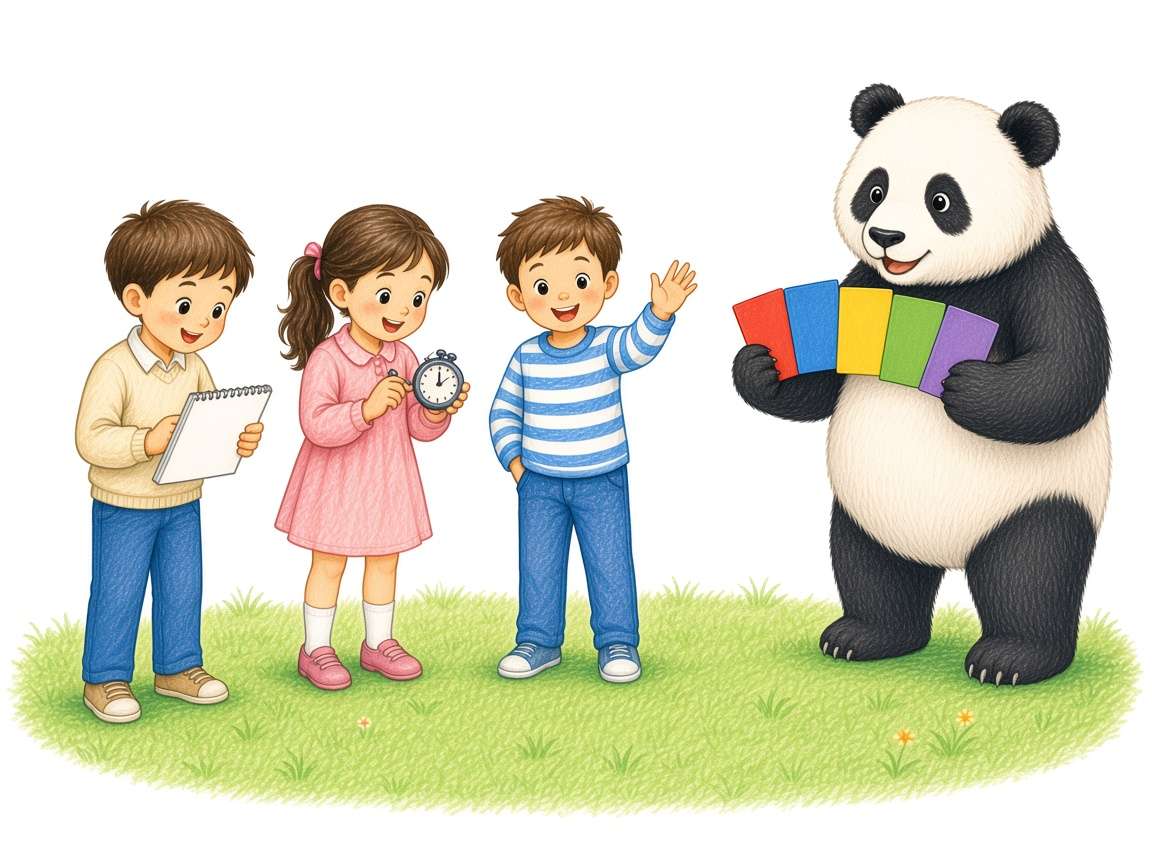
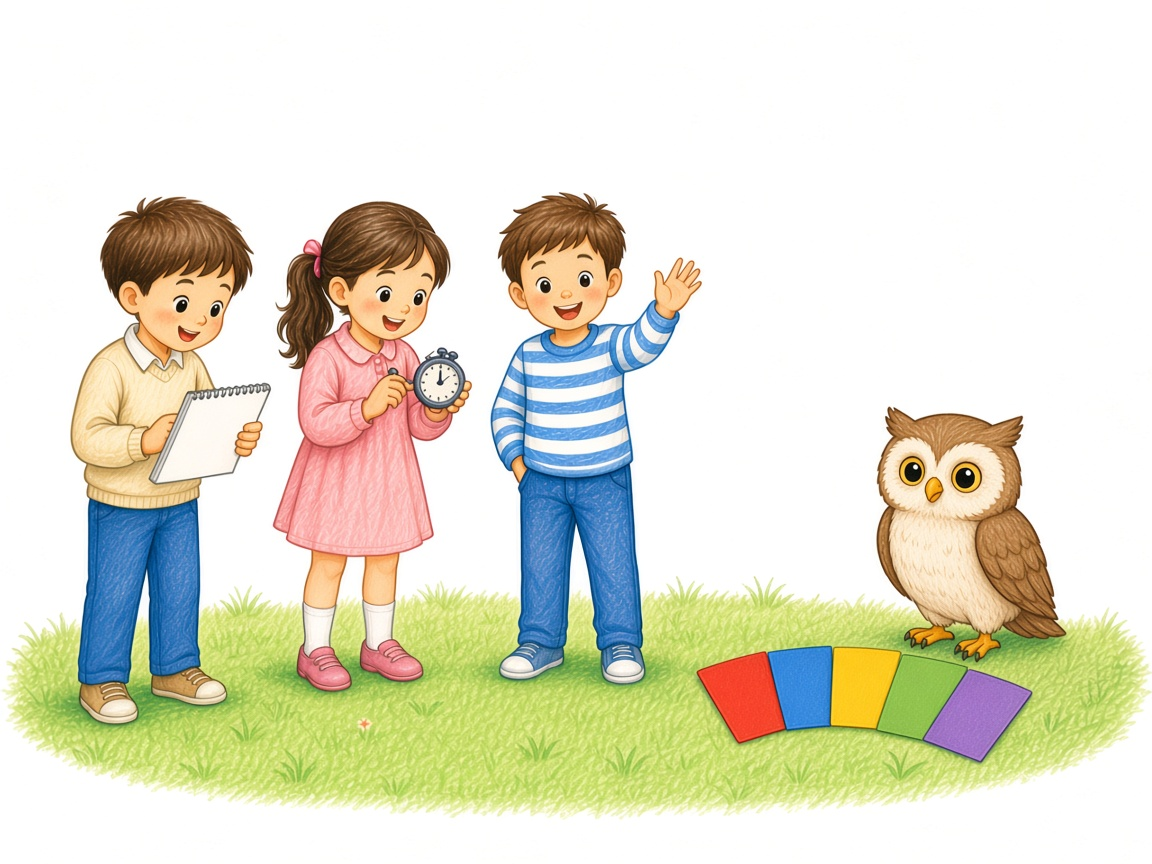
Ganti tokoh Pandu dengan burung hantu Igil di Matematika kelas 3 Bab 1.

Changed region(s): [[0.0, 0.0938, 1.0, 0.9688], [0.25, 0.7188, 0.375, 0.8125], [0.2188, 0.5625, 0.25, 0.5938]]

diff --git a/src/components/NaskahMtk3Bab1.tsx b/src/components/NaskahMtk3Bab1.tsx
@@ -66,14 +66,14 @@ const WARNA_DIALOG: Record<string, string> = {
   Aldi: "border-[#2563EB]/20 bg-[#EFF6FF]",
   Naya: "border-[#DB2777]/20 bg-[#FDF2F8]",
   Fikri: "border-[#16A34A]/20 bg-[#F0FDF4]",
-  Pandu: "border-amber-300 bg-amber-50",
+  Igil: "border-amber-300 bg-amber-50",
 };
 
 const WAJAH_DIALOG: Record<string, string> = {
   Aldi: "👦",
   Naya: "👧",
   Fikri: "👦",
-  Pandu: "🐼",
+  Igil: "🦉",
 };
 
 function Dialog({ nama, anak }: { nama: string; anak: string }) {
@@ -542,9 +542,9 @@ function KartuA({ kelas, kelamin }: { kelas?: string; kelamin?: KelaminGuru }) {
   return (
     <KartuBingkai>
       <KepalaKartu
-        ikon="👦👧🐼"
+        ikon="👦👧🦉"
         judul="A. Lapangan Sekolah"
-        anak="Aldi, Naya, Fikri, dan Pandu"
+        anak="Aldi, Naya, Fikri, dan Igil"
         kelas={kelas}
         kelamin={kelamin}
         cuplikan={cuplikanKalimat(kartu.voice[0] ?? [])}
@@ -562,7 +562,7 @@ function KartuA({ kelas, kelamin }: { kelas?: string; kelamin?: KelaminGuru }) {
           utama
           judul="Sub-bab 1 — Membaca bilangan ribuan"
           src="/doodle-mtk/mtk-3-bab1-sub1.jpg"
-          alt="Lapangan sekolah, papan skor kosong, dan empat kotak rak kosong. Aldi memegang catatan, Naya memegang stopwatch, Fikri melambai, panda berdiri di samping."
+          alt="Lapangan sekolah, papan skor kosong, dan empat kotak rak kosong. Aldi memegang catatan, Naya memegang stopwatch, Fikri melambai, burung hantu Igil berdiri di samping."
           kelas={kelas}
           kelamin={kelamin}
           penjelasan={["Empat angka dibaca dari kiri. Titik hanya pemisah ribuan."]}
@@ -570,7 +570,7 @@ function KartuA({ kelas, kelamin }: { kelas?: string; kelamin?: KelaminGuru }) {
           <Dialog nama="Aldi" anak="Papan menulis 4.725." />
           <Dialog nama="Fikri" anak="Empat, tujuh, dua, lima?" />
           <Dialog nama="Naya" anak="Itu menyebut angka. Bacanya: empat ribu tujuh ratus dua puluh lima." />
-          <Dialog nama="Pandu" anak="4 di rak ribuan, 7 ratusan, 2 puluhan, 5 satuan. Titik bukan angka." />
+          <Dialog nama="Igil" anak="4 di rak ribuan, 7 ratusan, 2 puluhan, 5 satuan. Titik bukan angka." />
           <Papan anak="4.725 = 4 ribuan + 7 ratusan + 2 puluhan + 5 satuan" />
           <JudulInfografis judul="Membaca dan menulis" />
           <PetaContoh
@@ -631,7 +631,7 @@ function KartuA({ kelas, kelamin }: { kelas?: string; kelamin?: KelaminGuru }) {
           utama
           judul="Sub-bab 2 — Nilai tempat ribuan sampai satuan"
           src="/doodle-mtk/mtk-3-bab1-sub2.jpg"
-          alt="Anak-anak, panda, balon, dan empat kotak rak kosong di depan papan yang masih kosong."
+          alt="Anak-anak, burung hantu Igil, balon, dan empat kotak rak kosong di depan papan yang masih kosong."
           kelas={kelas}
           kelamin={kelamin}
           penjelasan={["Angkanya tetap. Raknya yang mengubah nilai."]}
@@ -639,7 +639,7 @@ function KartuA({ kelas, kelamin }: { kelas?: string; kelamin?: KelaminGuru }) {
           <Dialog nama="Fikri" anak="Mengapa angka 8 pada 6.482 bernilai 80?" />
           <Dialog nama="Aldi" anak="Karena ia di rak puluhan." />
           <Dialog nama="Naya" anak="Satu puluhan berisi sepuluh. Pindah satu rak ke kiri, kali sepuluh." />
-          <Dialog nama="Pandu" anak="6.482 sama dengan 6.000 + 400 + 80 + 2." />
+          <Dialog nama="Igil" anak="6.482 sama dengan 6.000 + 400 + 80 + 2." />
           <Papan anak="6.482 = 6.000 + 400 + 80 + 2" />
           <JudulInfografis judul="Nilai tempat" />
           <PetaContoh
@@ -708,7 +708,7 @@ function KartuA({ kelas, kelamin }: { kelas?: string; kelamin?: KelaminGuru }) {
           <Dialog nama="Naya" anak="Merah 3.842, Biru 3.291." />
           <Dialog nama="Aldi" anak="Ribuan sama. Ratusan 8 lebih besar dari 2." />
           <Dialog nama="Fikri" anak="Kalau 8.000 dan 7.999?" />
-          <Dialog nama="Pandu" anak="Ribuan sudah beda. 8.000 lebih besar." />
+          <Dialog nama="Igil" anak="Ribuan sudah beda. 8.000 lebih besar." />
           <Papan anak="3.842 > 3.291    8.000 > 7.999" />
           <JudulInfografis judul="Membandingkan" />
           <PetaContoh
@@ -776,7 +776,7 @@ function KartuA({ kelas, kelamin }: { kelas?: string; kelamin?: KelaminGuru }) {
           <Dialog nama="Aldi" anak="Skornya 6.540, 2.180, 6.290, 9.050, dan 2.990." />
           <Dialog nama="Naya" anak="Pisahkan ribuan 2, ribuan 6, dan ribuan 9." />
           <Dialog nama="Fikri" anak="Di kelompok 2: 2.180 lalu 2.990." />
-          <Dialog nama="Pandu" anak="Jadi 2.180, 2.990, 6.290, 6.540, 9.050." />
+          <Dialog nama="Igil" anak="Jadi 2.180, 2.990, 6.290, 6.540, 9.050." />
           <Papan anak="2.180 < 2.990 < 6.290 < 6.540 < 9.050" />
           <JudulInfografis judul="Mengurutkan" />
           <PetaContoh
@@ -844,7 +844,7 @@ function KartuA({ kelas, kelamin }: { kelas?: string; kelamin?: KelaminGuru }) {
           <Dialog nama="Fikri" anak="6.084 dan 6.840 angkanya sama." />
           <Dialog nama="Naya" anak="Pada 6.084, angka 8 di puluhan. Pada 6.840, angka 8 di ratusan." />
           <Dialog nama="Aldi" anak="Nol di tengah tidak disebut." />
-          <Dialog nama="Pandu" anak="Tetap ditulis. Tanpa nol, 6.084 jadi 684." />
+          <Dialog nama="Igil" anak="Tetap ditulis. Tanpa nol, 6.084 jadi 684." />
           <Papan anak={"6.084 = enam ribu delapan puluh empat\n6.840 = enam ribu delapan ratus empat puluh"} />
           <JudulInfografis judul="Bilangan dengan angka nol" />
           <PetaContoh
@@ -1019,7 +1019,7 @@ function KartuC({ kelas, kelamin }: { kelas?: string; kelamin?: KelaminGuru }) {
   return (
     <KartuBingkai latar="bg-amber-50/40">
       <KepalaKartu
-        ikon="🏗🐼"
+        ikon="🏗🦉"
         judul={kartu.judul}
         anak="Sepuluh pos · baca, bandingkan, urutkan"
         kelas={kelas}
@@ -1029,7 +1029,7 @@ function KartuC({ kelas, kelamin }: { kelas?: string; kelamin?: KelaminGuru }) {
       {/* eslint-disable-next-line @next/next/no-img-element */}
       <img
         src="/doodle-mtk/mtk-3-bab1-permainan.jpg"
-        alt="Stadion kejuaraan. Pandu berdiri di meja juri."
+        alt="Stadion kejuaraan. Igil berdiri di meja juri."
         className="mt-4 w-full rounded-xl border border-[#1C01A5]/10 bg-white object-cover"
       />
       <p className="mt-3 text-center text-sm font-semibold text-slate-600">Sepuluh soal pola. Pilih satu pos, lalu jawab.</p>
@@ -1039,8 +1039,8 @@ function KartuC({ kelas, kelamin }: { kelas?: string; kelamin?: KelaminGuru }) {
           idMisi={(indeks) => idKuis("C", indeks)}
           idTulis={idKuisTulisKartu(ID, "C")}
           tema={TEMA_MTK3_BAB1}
-          penutup="Podium juara terbuka. Pandu memasang lencana juri."
-          bunga="🏟🏆🥇🐼"
+          penutup="Podium juara terbuka. Igil memasang lencana juri."
+          bunga="🏟🏆🥇🦉"
         />
       </div>
     </KartuBingkai>
@@ -1058,17 +1058,17 @@ function LembarEvaluasi({ kelas, kelamin }: { kelas?: string; kelamin?: KelaminG
     }
     return jumlahSkor;
   }, [kuis]);
-  const lencana = skor >= 9 ? "🥇 Juri Bilangan Ahli" : skor >= 6 ? "🏟 Juri Muda Cerdas" : "🐼 Sahabat Pandu";
+  const lencana = skor >= 9 ? "🥇 Juri Bilangan Ahli" : skor >= 6 ? "🏟 Juri Muda Cerdas" : "🦉 Sahabat Igil";
   const pesan =
     skor >= 9
       ? "Luar biasa! Catatanmu bisa dipertanggungjawabkan!"
       : skor >= 6
         ? "Hebat! Sedikit lagi jadi juri ahli!"
-        : "Ayo selidiki lagi bersama Pandu, kamu pasti bisa!";
+        : "Ayo selidiki lagi bersama Igil, kamu pasti bisa!";
   return (
     <KartuBingkai latar="bg-rose-50/80">
       <KepalaKartu
-        ikon="📝🐼"
+        ikon="📝🦉"
         judul={kartu.judul}
         anak={`${nama} · Kelas 3 · ${skor} dari 10`}
         kelas={kelas}
@@ -1078,7 +1078,7 @@ function LembarEvaluasi({ kelas, kelamin }: { kelas?: string; kelamin?: KelaminG
       {/* eslint-disable-next-line @next/next/no-img-element */}
       <img
         src="/doodle-mtk/mtk-3-bab1-evaluasi.jpg"
-        alt="Meja ujian dan panda Pandu."
+        alt="Meja ujian dan burung hantu Igil."
         className="mt-4 w-full rounded-xl border border-[#1C01A5]/10 bg-white object-cover"
       />
       <p className="mt-4 text-center text-sm font-black text-[#1C01A5]">
@@ -1226,7 +1226,7 @@ export default function NaskahMtk3Bab1({
         kelamin={kelamin}
         gambar={{
           src: "/doodle-mtk/mtk-3-bab1-poin.jpg",
-          alt: "Panda Pandu membentangkan lima kartu kunci di depan papan skor.",
+          alt: "Burung hantu Igil membentangkan lima kartu kunci di depan papan skor.",
         }}
         cuplikan={cuplikanKalimat([
           "Baca tiap rak dari kiri. Pindah satu rak ke kiri berarti dikali sepuluh.",

diff --git a/src/lib/modul-resmi-mtk-3-bab1.ts b/src/lib/modul-resmi-mtk-3-bab1.ts
@@ -13,12 +13,12 @@ export const MODUL_MTK3_BAB1: ModulResmiPai = {
   judul: JUDUL_MTK3_BAB1,
   pola: /bilangan sampai 10\.?000/,
   motivasi:
-    "Aldi, Naya, dan Fikri belajar membaca, membandingkan, dan mengurutkan bilangan sampai 10.000 bersama panda Pandu.",
+    "Aldi, Naya, dan Fikri belajar membaca, membandingkan, dan mengurutkan bilangan sampai 10.000 bersama burung hantu Igil.",
   kunciJawaban: "A,B,C,C,A,C,C,A,D,A",
   sketsaKartu: [
-    "Aldi, Naya, dan Fikri membaca 4.725 bersama Pandu.",
+    "Aldi, Naya, dan Fikri membaca 4.725 bersama Igil.",
     "Empat rak angka: ribuan, ratusan, puluhan, dan satuan.",
-    "Pandu menjadi juri di papan skor kejuaraan.",
+    "Igil menjadi juri di papan skor kejuaraan.",
     "Poin penting dan lembar evaluasi bilangan sampai 10.000.",
   ],
   latihan: pg([
@@ -88,7 +88,7 @@ D) Kuning`,
       kode: "A",
       judul: "A. Naskah Bergambar",
       pengantar:
-        "Aldi, Naya, Fikri, dan panda Pandu membaca, membandingkan, lalu mengurutkan bilangan sampai 10.000. Infografis tiap sub-bab ada di dalam materi.",
+        "Aldi, Naya, Fikri, dan burung hantu Igil membaca, membandingkan, lalu mengurutkan bilangan sampai 10.000. Infografis tiap sub-bab ada di dalam materi.",
       labelDaftar: "Lima sub-bab, infografis di dalam materi",
       kolom: 1,
       item: [
@@ -222,7 +222,7 @@ D) Kuning`,
     },
     {
       kode: "C",
-      judul: "C. Papan Skor Kejuaraan Pandu",
+      judul: "C. Papan Skor Kejuaraan Igil",
       pengantar: "Siswa menjadi juri pencatat skor. Sepuluh pos selesai, sepuluh piala terkumpul.",
       labelDaftar: "Sepuluh pos papan skor",
       kolom: 1,
@@ -271,7 +271,7 @@ D) Kuning`,
           contoh: "Kelompokkan dulu sebelum mengurutkan.",
         },
         {
-          nama: "Kejuaraan Pandu",
+          nama: "Kejuaraan Igil",
           singkat: "Tiga langkah",
           uraian:
             "Hijau 3.840 juara pertama. Kuning 3.084 peringkat terakhir. Selisihnya 3.840 dikurangi 3.084 sama dengan 756.",

diff --git a/src/lib/misi-mtk-3-bab1.ts b/src/lib/misi-mtk-3-bab1.ts
@@ -2,9 +2,9 @@ import type { MisiPetak } from "@/lib/misi-kebun-mtk-1";
 import type { TemaMisi } from "@/lib/tema-misi-mtk-1";
 
 export const TEMA_MTK3_BAB1: TemaMisi = {
-  pemandu: "Pandu",
+  pemandu: "Igil",
   pengantar:
-    "Bantu Pandu mencatat 10 pos di papan skor kejuaraan. Pilih satu pos, lalu jawab dengan suara, kanvas, atau pilihan.",
+    "Bantu Igil mencatat 10 pos di papan skor kejuaraan. Pilih satu pos, lalu jawab dengan suara, kanvas, atau pilihan.",
   satuan: "Pos",
   ikonAwal: "🏟",
   ikonAkhir: "🥇",
@@ -32,7 +32,7 @@ export const MISI_MTK3_BAB1: MisiPetak[] = [
     ],
     benarPilih: "a",
     alias: ["empat ribu delapan ratus dua puluh tujuh", "4827"],
-    bersama: "Pandu membaca: empat ribu delapan ratus dua puluh tujuh. Angka 4 di rak ribuan.",
+    bersama: "Igil membaca: empat ribu delapan ratus dua puluh tujuh. Angka 4 di rak ribuan.",
   },
   {
     warna: "kuning",

diff --git a/src/lib/subbab-buku-siswa.ts b/src/lib/subbab-buku-siswa.ts
@@ -197,7 +197,7 @@ const SUBBAB_BUKU_SISWA: Record<string, Record<string, Record<string, string[]>>
         "Membandingkan bilangan",
         "Mengurutkan bilangan",
         "Bilangan dengan angka nol",
-        "Papan Skor Kejuaraan Pandu",
+        "Papan Skor Kejuaraan Igil",
         "Poin penting",
         "Lembar evaluasi siswa",
       ],
